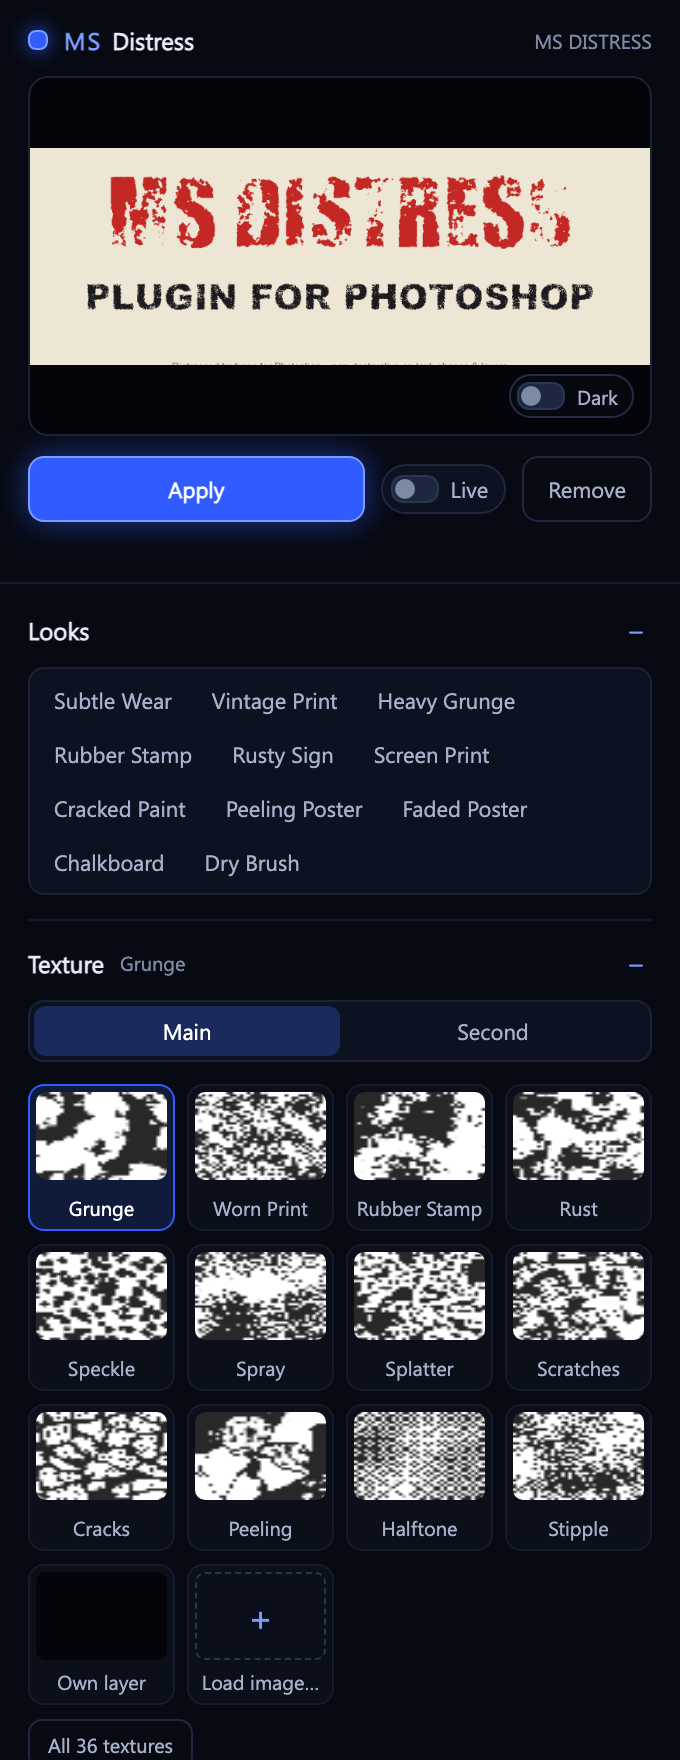
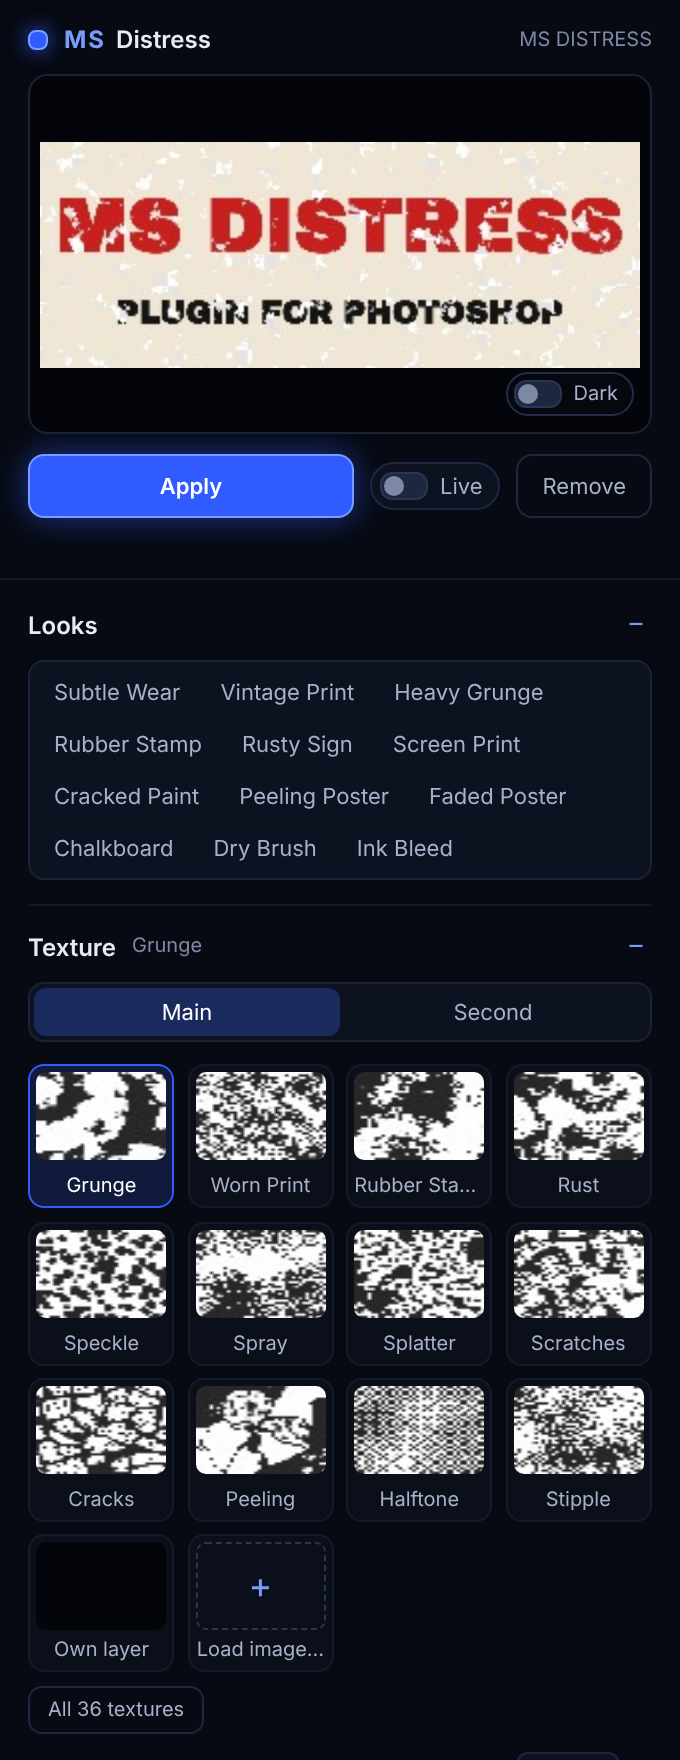
README and panel image brought up to date with Ink Bleed
- README: Ink Bleed controls with defaults, Remove also takes the ink bleed
  layer, slider names as in the panel (Colour, Affects, Second), more image
  formats, project structure, how to rebuild the images and preview the panel
- New panel.png with the 12 looks; sliders.png label Colour
- Texture thumbnails: pure white no longer wraps round to black
- ui-preview.html?demo: a sample document so preview and thumbnails render
- Remaining German console messages and comment in English
- Free tools by Morgenstern (not only Photoshop)

diff --git a/tools/ui-preview.js b/tools/ui-preview.js
@@ -1,5 +1,7 @@
 // Shows the panel UI in a browser (without Photoshop): Photoshop/UXP are mocked.
-// Open ui-preview.html; it names the plugin folder in data-plugin (e.g. "../glow/").
+// Open ui-preview.html; it names the plugin folder in data-plugin (e.g. "../distress/").
+// ui-preview.html?demo adds a small document with a text layer, so the preview and the texture thumbnails
+// render with the real engine (imaging is mimicked with a canvas) – used for the README screenshot.
 const SCRIPT_END = "</" + "script>";
 const f = document.getElementById("frame");
 const base = f.getAttribute("data-plugin");
@@ -24,6 +26,34 @@ const base = f.getAttribute("data-plugin");
   ` + defs + `
   const fake = { app: { activeDocument: null, version: "test", documents: [], foregroundColor: { rgb: { red: 0, green: 0, blue: 0 } } }, core: { executeAsModal: async (fn) => fn({ hostControl: { suspendHistory: async () => 1, resumeHistory: async () => {} } }) },
     action: { batchPlay: async () => [{}], addNotificationListener: () => {} }, imaging: {}, constants: {} };
+  if (` + JSON.stringify(/[?&]demo\b/.test(location.search)) + `) {
+    // a 1600 × 600 document with one layer: a light card with distressable lettering
+    const W = 1600, H = 600, art = document.createElement("canvas"); art.width = W; art.height = H;
+    const x = art.getContext("2d");
+    x.fillStyle = "#efe6d6"; x.fillRect(0, 0, W, H);
+    x.textAlign = "center"; x.fillStyle = "#c8201e"; x.font = "900 200px Impact, 'Archivo Black', 'Arial Black', sans-serif"; x.fillText("MS DISTRESS", W / 2, 290);
+    x.fillStyle = "#151515"; x.font = "900 84px Impact, 'Archivo Black', 'Arial Black', sans-serif"; x.fillText("PLUGIN FOR PHOTOSHOP", W / 2, 480);
+    const imgData = (buf, w, h, c) => ({ width: w, height: h, components: c, componentSize: 8, getData: async () => buf, dispose: () => {} });
+    const layer = { id: 2, name: "MS DISTRESS", kind: "pixel", bounds: { left: 0, top: 0, right: W, bottom: H }, boundsNoEffects: { left: 0, top: 0, right: W, bottom: H } };
+    fake.app.activeDocument = { id: 1, title: "MS Distress.psd", width: W, height: H, bitsPerChannel: "bitDepth8", layers: [layer], activeLayers: [layer] };
+    fake.app.documents = [fake.app.activeDocument];
+    fake.imaging = {
+      createImageDataFromBuffer: async (buf, o) => imgData(buf, o.width, o.height, o.components),
+      encodeImageData: async ({ imageData: d }) => {
+        const c = document.createElement("canvas"); c.width = d.width; c.height = d.height;
+        const g = c.getContext("2d"), id = g.createImageData(d.width, d.height), src = await d.getData();
+        for (let i = 0; i < d.width * d.height; i++) for (let k = 0; k < 4; k++) id.data[i * 4 + k] = k < 3 ? src[i * d.components + (d.components >= 3 ? k : 0)] : (d.components === 4 ? src[i * 4 + 3] : 255);
+        g.putImageData(id, 0, 0); return c.toDataURL("image/jpeg", 0.92).split(",")[1];
+      },
+      getPixels: async (o) => {
+        const sb = o.sourceBounds || { left: 0, top: 0, right: W, bottom: H }, sw = sb.right - sb.left, sh = sb.bottom - sb.top;
+        const tw = o.targetSize ? o.targetSize.width : sw, th = o.targetSize ? o.targetSize.height : sh;
+        const c = document.createElement("canvas"); c.width = tw; c.height = th;
+        const g = c.getContext("2d"); g.drawImage(art, sb.left, sb.top, sw, sh, 0, 0, tw, th);
+        return { imageData: imgData(new Uint8Array(g.getImageData(0, 0, tw, th).data.buffer), tw, th, 4), sourceBounds: sb };
+      },
+    };
+  }
   const uxp = { storage: { localFileSystem: { getDataFolder: async () => ({ createFile: async () => ({ write: async () => {} }), getEntry: async () => { throw 1; }, getEntries: async () => [] }), getFileForSaving: async () => null }, formats: { utf8: "utf8", binary: "binary" } }, entrypoints: { setup: () => {} } };
   window.require = (n) => {
     if (n === "photoshop") return fake;

diff --git a/distress/main.js b/distress/main.js
@@ -197,7 +197,7 @@ async function readLayerUnmasked(ctx, doc, layer, sourceBounds, targetSize) {
   }
 }
 
-// Rohdaten (chunky) -> Alpha-Kanal
+// raw pixel data (chunky) -> alpha channel
 function extractAlpha(data, comps, n) {
   const alpha = new Uint8Array(n);
   if (comps === 4 || comps === 2) {
@@ -290,7 +290,7 @@ async function renderThumbs() {
         const g = Core.renderThumb(t.id, size, texData(t.id));
         const rgb = new Uint8Array(size * size * 3);
         for (let i = 0; i < g.length; i++) {
-          const v = 40 + g[i] * 0.85;
+          const v = Math.round(40 + g[i] * 0.84);   // 40 … 254 – 255 would wrap round to black in a Uint8Array
           rgb[i * 3] = v; rgb[i * 3 + 1] = v; rgb[i * 3 + 2] = v;
         }
         thumbCache[t.id] = await encodeRGB(rgb, size, size);

diff --git a/tools/render-test.js b/tools/render-test.js
@@ -60,4 +60,4 @@ list.forEach((t, k) => {
 });
 fs.writeFileSync(out, encodePNG(W, H, img, 3));
 const px = shape.w * shape.h;
-console.log(`${list.length} Texturen, ${shape.w}x${shape.h}px je Schriftzug, Ø ${(total / list.length).toFixed(0)} ms (${(total / list.length / px * 1e6).toFixed(0)} ms pro Megapixel)`);
+console.log(`${list.length} textures, ${shape.w}x${shape.h} px per lettering, avg ${(total / list.length).toFixed(0)} ms (${(total / list.length / px * 1e6).toFixed(0)} ms per megapixel)`);

diff --git a/tools/make-icons.js b/tools/make-icons.js
@@ -32,4 +32,4 @@ icon(23, "icon@1x.png");
 icon(46, "icon@2x.png");
 icon(48, "plugin@1x.png");
 icon(96, "plugin@2x.png");
-console.log("Icons geschrieben:", fs.readdirSync(dir).join(", "));
+console.log("Icons written:", fs.readdirSync(dir).join(", "));

diff --git a/tools/make-showcase.py b/tools/make-showcase.py
@@ -141,7 +141,7 @@ def controls():
         ("Inner Edge Size 0", {"innerEdgeSize": 0, "innerDistress": 40}),
         ("Fade from left", {"fadeAmount": 90, "fadeStyle": "left", "shapeDistress": 70, "innerDistress": 55}),
         ("Fade on opacity", {"fadeAmount": 80, "fadeStyle": "bottom", "fadeTarget": "opacity"}),
-        ("Shape Color", {"colorEnabled": True, "shapeDistress": 55, "innerDistress": 40}),
+        ("Colour", {"colorEnabled": True, "shapeDistress": 55, "innerDistress": 40}),
         ("Texture inverted", {"invert": True}),
         ("Size 250 %", {"scale": 250}),
     ]

diff --git a/README.md b/README.md
@@ -4,8 +4,8 @@
 
 <p align="center">
   <b>Distressed, grunge and print looks for Photoshop – one click, non-destructive, on text, shapes and any layer.</b><br>
-  <sub>Photoshop 2023 (24.2) or newer · UXP panel · macOS & Windows</sub><br>
-  <sub>Free Photoshop tools by <b>Morgenstern</b> · <b>Morgenstern Distress</b> · <a href="https://github.com/M0rgenst3rn/ms-printer">Morgenstern Printer</a> · <a href="https://github.com/M0rgenst3rn/ms-render">Morgenstern Render</a> · <a href="https://github.com/M0rgenst3rn/ms-phase">Morgenstern Phase</a> · <a href="https://github.com/M0rgenst3rn/ms-glow">Morgenstern Glow</a> · <a href="https://github.com/M0rgenst3rn/ms-gradients">Morgenstern Gradients</a> · <a href="https://github.com/M0rgenst3rn/ms-grids">Morgenstern Grids</a></sub>
+  <sub>Photoshop 2023 (24.2) or newer · UXP panel</sub><br>
+  <sub>Free tools by <b>Morgenstern</b> · <b>Morgenstern Distress</b> · <a href="https://github.com/M0rgenst3rn/ms-printer">Morgenstern Printer</a> · <a href="https://github.com/M0rgenst3rn/ms-render">Morgenstern Render</a> · <a href="https://github.com/M0rgenst3rn/ms-phase">Morgenstern Phase</a> · <a href="https://github.com/M0rgenst3rn/ms-glow">Morgenstern Glow</a> · <a href="https://github.com/M0rgenst3rn/ms-gradients">Morgenstern Gradients</a> · <a href="https://github.com/M0rgenst3rn/ms-grids">Morgenstern Grids</a></sub>
 </p>
 
 ---
@@ -26,16 +26,16 @@ The effect is created as a **layer mask**. So your text stays editable, and ⌘Z
 ### Highlights
 
 - **36 built-in textures**: grunge, rubber stamp, rust, cracks, scratches, halftone, chalk, paint roller, drips, leather, glitch and many more
-- **Your own images as textures**: load PNG, JPG, TIF or PSD. They are stored permanently as tiles
+- **Your own images as textures**: load PNG, JPG, TIF, PSD, WEBP, BMP or GIF. They are stored permanently as tiles
 - **A layer as texture**: any layer in the document can serve as the texture
 - **Combine two textures**: blend, add or mask
 - **Live**: slider changes land directly on the canvas, as *one* history step
-- **Shape Color**: worn areas are tinted in a colour of your choice
+- **Colour**: worn areas are tinted in a colour of your choice, on their own layer
 - **Ink Bleed**: ink soaks past the edge into the paper – blotchy, with fine tendrils along the fibres, on its own layer
 - **Fade**: the effect fades, e.g. from the top, radially, as a frame or in clouds – on the distress or the opacity
-- **Several layers at once**, optionally with its own variation per layer
+- **Several layers at once**, each with its own pattern (switch **Own pattern per layer**)
 - **12 looks** plus your own presets
-- **A tidy panel**: collapsible sections, its own colour palette, the essentials on top, everything else in Fine-tuning
+- **A tidy panel**: collapsible sections, its own colour palette, the essentials on top, the rest in collapsed sections
 - **Self-test & Verify**: the plugin checks whether the canvas really matches the settings
 
 </td>
@@ -62,8 +62,10 @@ visible repetition. **Seed** (Shuffle) gives endless variants of every texture.
 | **Inner Distress** | How strongly the inside of the shape wears away |
 | **Inner Edge Size** | Width of the edge zone where *Shape Distress* applies. Beyond it *Inner Distress* applies |
 | **Fade: Amount / Direction** | Lets the effect fade: from the top, bottom, left, right, diagonally, radially, as a frame or in clouds |
-| **Fade affects** | Distress, opacity or both |
-| **Shape Color** | Tints worn areas, on its own freely editable layer |
+| **Fade: Affects** | Distress, opacity or both |
+| **Colour** (Colourise, Colour opacity) | Tints worn areas, on its own freely editable layer ("… · Distress colour") |
+| **Second: Mix / Size / Invert** | Strength, size and direction of the second texture |
+| **Ink Bleed: Spread / Fibres / Opacity** | See *Ink Bleed* below |
 | **Invert texture** | Swaps which areas wear away first |
 | **Seed** | A new variant of the same setting (Shuffle) |
 
@@ -73,15 +75,17 @@ texture.** When you switch textures, the strength stays the same.
 ## Ink Bleed
 
 Printed ink soaks into the paper: it creeps past the edge in soft blotches and runs further along the paper
-fibres in fine tendrils; small gaps fill up. Turn on **Ink Bleed** and set:
+fibres in fine tendrils; small gaps fill up. Turn on the **Ink bleed** switch and set:
 
-- **Spread**: how far the ink soaks past the edge (px)
-- **Fibres**: how many fine tendrils run along the fibres
-- **Opacity** and the **ink colour**: the layer's own colour, or one of your choice
+- **Spread**: how far the ink soaks past the edge (0.5–40 px, default 4)
+- **Fibres**: how many fine tendrils run along the fibres (default 40 %)
+- **Opacity**: strength of the bleed (default 90 %)
+- **Ink**: **Layer colour** (the average colour of the layer) or **Own colour** (click the swatch to pick it)
 
 It goes on its own layer right below the layer ("… · Ink bleed"), so your text stays editable and the bleed
 can be changed or hidden on its own. It grows from the ink that is left after the distress, so worn-away
-areas don't bleed. **Remove** deletes it together with the mask.
+areas don't bleed. **Remove** deletes it together with the mask. The look **Ink Bleed** is a quick start
+(not to be confused with the *Ink Bleed* texture, which only wears the shape away).
 
 <p align="center"><img src="docs/images/ink-bleed.png" alt="Ink Bleed"></p>
 
@@ -121,7 +125,7 @@ and won't remove it again.
 1. Select one or more layers (text, shape, smart object, pixels)
 2. Click a texture and set the sliders. The preview at the top shows the result right away
 3. Click **Apply**, or turn on **Live**
-4. Done. **Remove** takes the mask and colour layer away again
+4. Done. **Remove** takes the mask, the colour layer and the ink bleed layer away again
 
 **Tips**
 - Strokes of shape layers are not worn away. For a clean look set the stroke to "none"
@@ -135,10 +139,12 @@ distress/            The plugin (loaded into Photoshop as is)
   manifest.json      Plugin description for Photoshop
   index.html         Panel UI
   ms-ui.js/.css      Shared Morgenstern controls and design
-  main.js            Photoshop side (masks, layers, Live mode, self-test)
-  core.js            Texture engine, plain JavaScript without Photoshop dependencies
+  styles.css         Panel-specific styles
+  icons/             Panel and plugin icons
+  main.js            Photoshop side (masks, colour and ink bleed layers, Live mode, self-test)
+  core.js            Texture and ink bleed engine, plain JavaScript without Photoshop dependencies
 install-mac.sh       Packs the plugin (.ccx) and installs it
-tools/               Test renderer, README image generator, browser preview of the panel
+tools/               Test renderer, README image generator, icon generator, browser preview of the panel
 docs/images/         Screenshots and example images
 ```
 
@@ -150,11 +156,16 @@ The engine can be tested without Photoshop:
 node tools/render-test.js test.png
 ```
 
-Rebuild the images of this README (needs Python with Pillow):
+Rebuild the images of this README (needs Python with Pillow and Node; fonts from macOS, or set
+`MSD_IMPACT` / `MSD_BLACK` / `MSD_LABEL`). `python3 tools/make-showcase.py bleed` renders a single image:
 
 ```bash
 python3 tools/make-showcase.py
 ```
+
+The panel in a browser, with Photoshop mocked: run `python3 -m http.server` in the repository and open
+`http://localhost:8000/tools/ui-preview.html` (add `?demo` for a sample document – that's how
+`docs/images/panel.png` is made).
 
 ## Found a bug? Got an idea?
 
